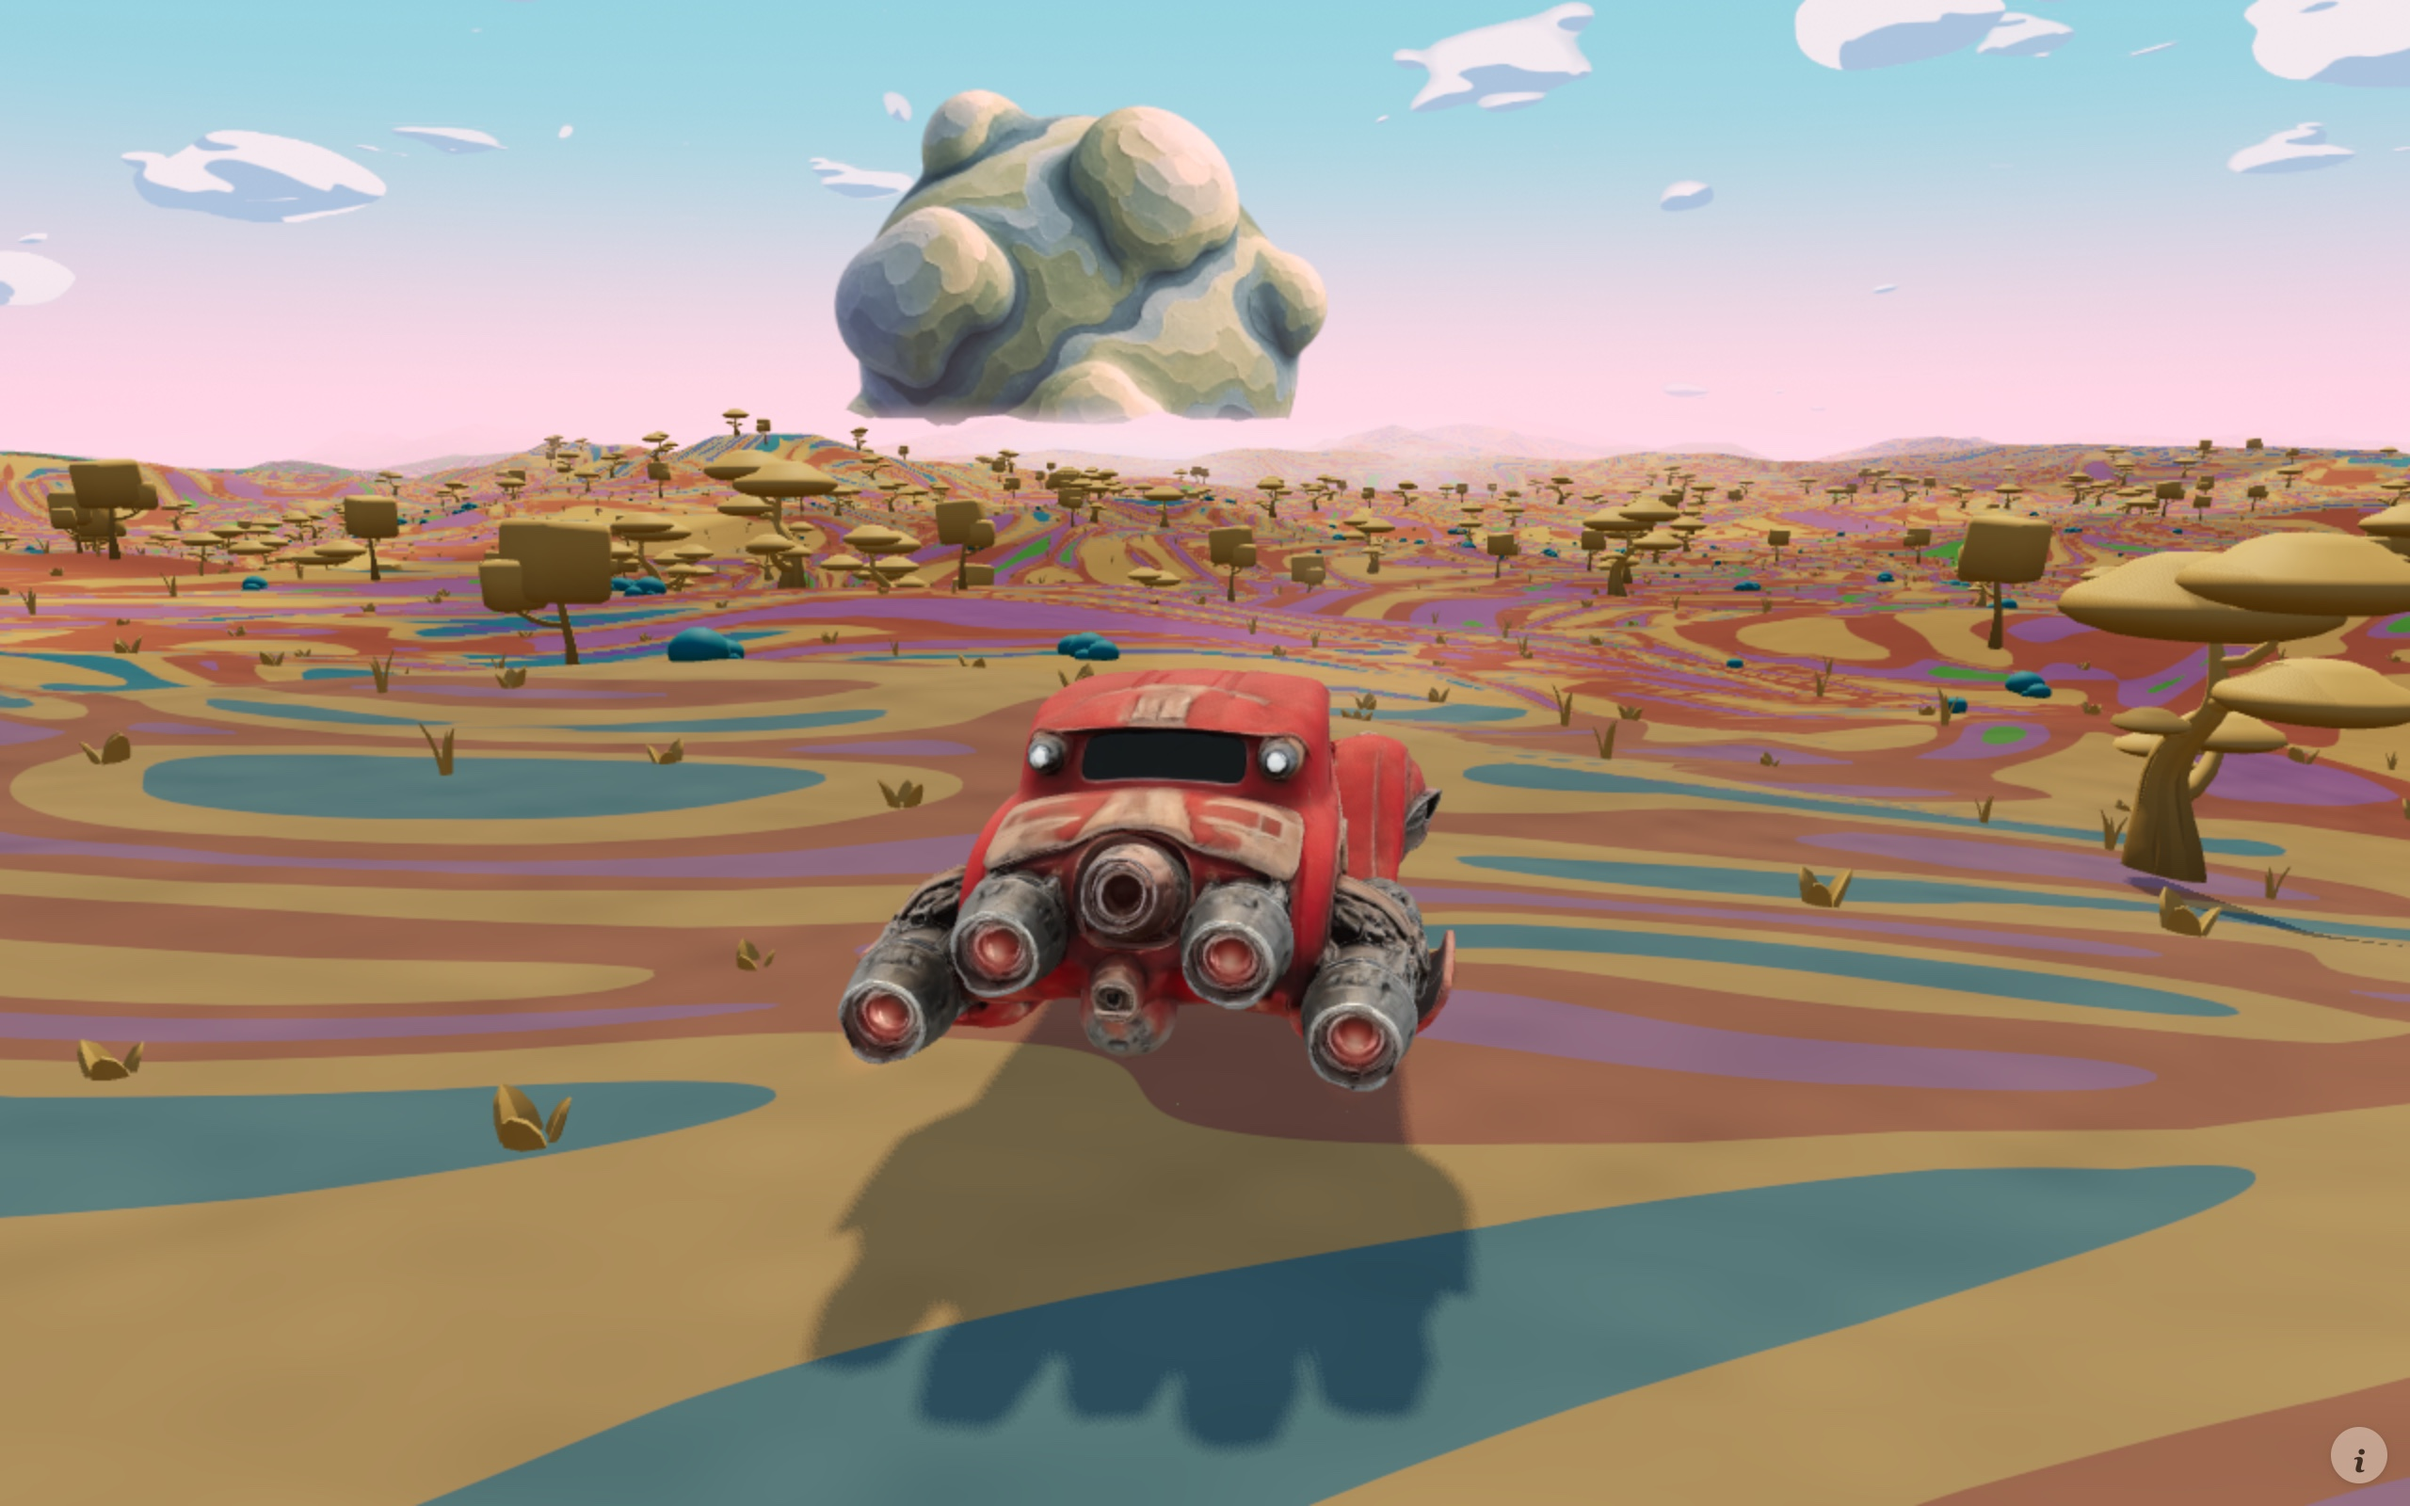
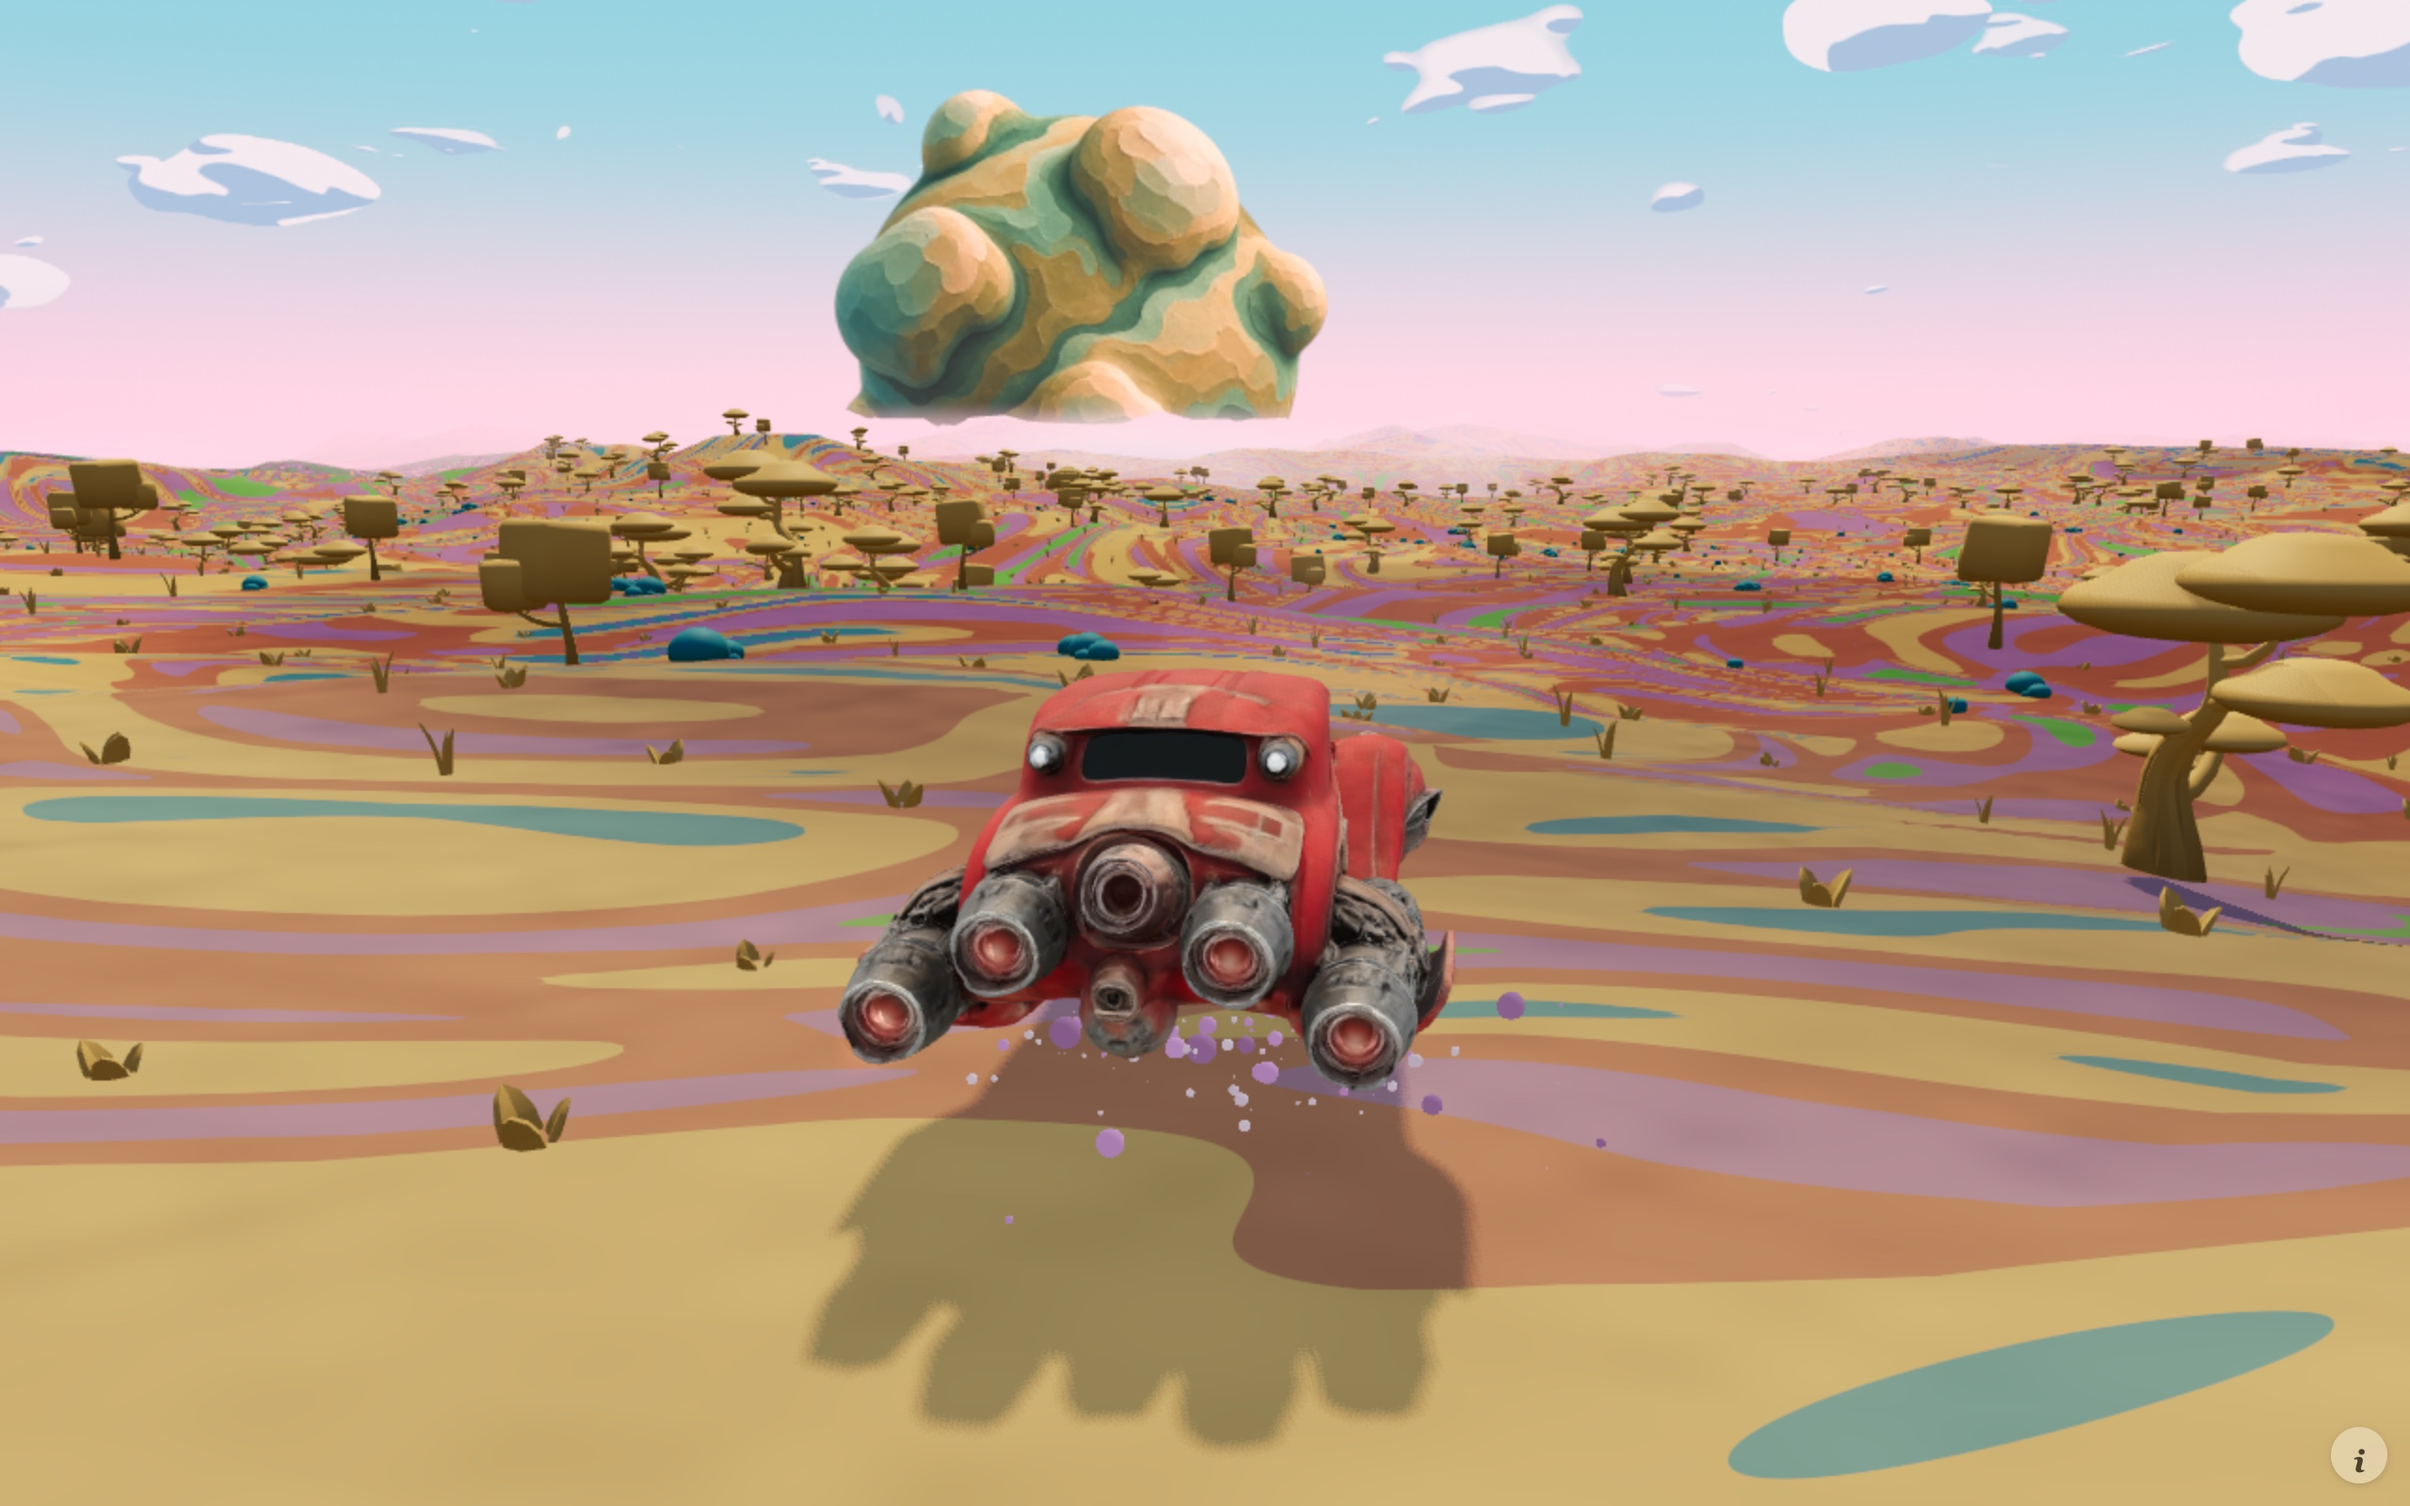
WS0: V-1207 korrigiert: PRs noch offen

diff --git a/tools/KFB-ToolBox/_inbox/KFB_HUB/30_DECISIONS/build_decisions.py b/tools/KFB-ToolBox/_inbox/KFB_HUB/30_DECISIONS/build_decisions.py
@@ -1182,7 +1182,7 @@ d('V-1203','2026-11-01','Spiel','RULE','Georg 01.11. (Q-042): Jede neue Faehigke
 d('V-1204','2026-11-01','Technik','DECISION','Spielchronik (Q-046, Georg 01.11.): ein Anhaenge-Protokoll fuer Rekorder und Lean Memory, Go nach Merge-Runde 3 hinter chronik=1. WS1 schreibt LEAN_MEMORY_R1 (Fakten statt Rohweg, Halter und Herkunft, Obergrenze, Vergessen, neu berechenbar, Version). Export auch als CSV, Spielstand loeschen loescht Chronik, Quelle der Wahrheit erst nach Gegenprobe umstellen.','WS1','Q-046, N-051','Georg 01.11.')
 d('V-1205','2026-11-01','Prozess','PLAN','Housekeeping GitHub: 25 offene PRs aus September und Anfang Oktober gehoeren nicht zum jetzigen Spiel, Hub-Frage zuklappen. PR 47 und 48 werden mit dem Merge von waffen-fx ueberholt, PR 46 geht in Merge-Runde 3, PR 45 offen pruefen. Gut 40 alte Zweige bleiben, kein Loeschen. Lokale Arbeitskopien spike, nature, cd-r3, streetplan, wissen sind sauber und gepusht, Papierkorb-Gang bei Bedarf.','WS0','GitHub-Liste 01.11.','Georg 01.11.')
 d('V-1206','2026-11-01','Kampf','TUNE','Georg 01.11. zur Explosion: Feuer und Rauch sehr cool, Papierzacken cartoonig und schlecht gezeichnet, AI slop. Keine Kamera-Effekte zum Kaschieren; erst sauber bauen, dann Immersion pruefen. Schichten subtil komponieren. Naechste Runde: Grundstand ohne Papier, am echten Einschlagsort, komponiert fuer die unveraenderte Spielkamera, Haenger; danach Papier nur als wenige echte verkohlte Kartenfetzen, Vergleich mit und ohne.','Flug-Sitzung','q387','Georg 01.11.')
-d('V-1207','2026-11-01','Prozess','DONE','Georg Ja: 26 alte PRs aus September bis 12.10. auf GitHub zugeklappt (PR 10 bis 43, Hub nannte 25), Zweige bleiben.','WS0','q388','Georg 01.11.')
+d('V-1207','2026-11-01','Prozess','OPEN','Georg Ja zum Zuklappen von 26 alten PRs (PR 10 bis 43, Hub nannte 25). NICHT erledigt: Das Werkzeug zeigt Georg je PR ein Formular, drei Aufrufe wurden abgelehnt. Niedrige Prioritaet, Zweige und Arbeit unberuehrt.','WS0','q388','Georg 01.11.')
 d('V-427','2026-10-17','Prozess','TBD','Repo privat (Georg: Ziel privates Repo, PDF-Viewer und KFB-Seiten extern erreichbar). Inventur: GitHub Pages (georg-doc.github.io/kayfabizarro) spiegelt das ganze Repo öffentlich inkl. Mystery Series; Cloudflare Pages baut weiter, lädt 2D/3D/Songs aber per raw.githubusercontent → bricht; Registry erzeugt 51 034 raw-Links (Generator tools/asset_registry/build.py); PDFs schon auf pages.dev, Viewer nur 4 URLs umzustellen. Kauf-/eingeschränkte Assets auf main: Mystery Series 297 MB (inkl. 64 SOURCE-.blend), Patreon Snow Biome, ggf. KayKit ohne _FREE (~165 MB, Georg klärt), Audio-Packs ~337 MB, CraftPix ~63 MB, Pixel Frog, Mixamo. Vorschlag Reihenfolge: (1) PDF-Viewer auf pages.dev, (2) öffentlicher R2-Bucket aus Allowlist per Action, (3) Registry-Generator + Librarian/Personae/Audio auf öffentliche URLs, (4) Kauf-Assets nur in Spiel-/Tool-Builds, (5) Token für WS1-Staging + CI-Sperre gegen raw/jsDelivr/github.io, (6) Georg: Pages abschalten, Repo privat, Cloudflare-Zugriff prüfen. Aufwand ~3–5 Agent-Tage + ~1 h Georg.', 'WS0 (Plan) · WSA/WS1 (Umstellung) · Georg (Einstellungen)', 'Georg entscheidet Plan + welche Packs gekauft sind', 'replies/REPO_PRIVATE_MIGRATION_INVENTORY_R1.md')
 d('V-084','2026-10-10','Claude Design','FAIL','Town-Massemodell R1: Claude Design baut keine 3D-Geometrie mehr.', 'Steuerung', '-', 'docs/critic/claude-design/town-massemodell-r1-FAIL_2026-10-10/')
 # --- WARUM und WANN (Georg 11.10.: „why & when für decisions“) ---

diff --git a/tools/KFB-ToolBox/_inbox/KFB_HUB/30_DECISIONS/DECISIONS.md b/tools/KFB-ToolBox/_inbox/KFB_HUB/30_DECISIONS/DECISIONS.md
@@ -1172,7 +1172,7 @@ Stand 2026-11-01 · erzeugt aus `build_decisions.py` · Teil A handgepflegt (nur
 | V-1204 | 2026-11-01 | 01.11. | Technik | **DECISION** | Spielchronik (Q-046, Georg 01.11.): ein Anhaenge-Protokoll fuer Rekorder und Lean Memory, Go nach Merge-Runde 3 hinter chronik=1. WS1 schreibt LEAN_MEMORY_R1 (Fakten statt Rohweg, Halter und Herkunft, Obergrenze, Vergessen, neu berechenbar, Version). Export auch als CSV, Spielstand loeschen loescht Chronik, Quelle der Wahrheit erst nach Gegenprobe umstellen. | Vier Schreiber heute, doppelte Aufzeichnung; Messung und Spielgeschehen in einem Zeitstrahl sparen beides. | WS1 | Q-046, N-051 | Georg 01.11. |
 | V-1205 | 2026-11-01 | 01.11. | Prozess | **PLAN** | Housekeeping GitHub: 25 offene PRs aus September und Anfang Oktober gehoeren nicht zum jetzigen Spiel, Hub-Frage zuklappen. PR 47 und 48 werden mit dem Merge von waffen-fx ueberholt, PR 46 geht in Merge-Runde 3, PR 45 offen pruefen. Gut 40 alte Zweige bleiben, kein Loeschen. Lokale Arbeitskopien spike, nature, cd-r3, streetplan, wissen sind sauber und gepusht, Papierkorb-Gang bei Bedarf. | Offene Liste soll zeigen, was laeuft; zuklappen verliert nichts. | WS0 | GitHub-Liste 01.11. | Georg 01.11. |
 | V-1206 | 2026-11-01 | 01.11. | Kampf | **TUNE** | Georg 01.11. zur Explosion: Feuer und Rauch sehr cool, Papierzacken cartoonig und schlecht gezeichnet, AI slop. Keine Kamera-Effekte zum Kaschieren; erst sauber bauen, dann Immersion pruefen. Schichten subtil komponieren. Naechste Runde: Grundstand ohne Papier, am echten Einschlagsort, komponiert fuer die unveraenderte Spielkamera, Haenger; danach Papier nur als wenige echte verkohlte Kartenfetzen, Vergleich mit und ohne. | Meine Kamera-Empfehlung haette einen schwachen Effekt kaschiert; gezeichnete Form auf guter Simulation schwaecht beide. | Flug-Sitzung | q387 | Georg 01.11. |
-| V-1207 | 2026-11-01 | 01.11. | Prozess | **DONE** | Georg Ja: 26 alte PRs aus September bis 12.10. auf GitHub zugeklappt (PR 10 bis 43, Hub nannte 25), Zweige bleiben. | Offene Liste zeigt jetzt nur noch laufende Arbeit. | WS0 | q388 | Georg 01.11. |
+| V-1207 | 2026-11-01 | 01.11. | Prozess | **OPEN** | Georg Ja zum Zuklappen von 26 alten PRs (PR 10 bis 43, Hub nannte 25). NICHT erledigt: Das Werkzeug zeigt Georg je PR ein Formular, drei Aufrufe wurden abgelehnt. Niedrige Prioritaet, Zweige und Arbeit unberuehrt. | Offene Liste zeigt jetzt nur noch laufende Arbeit. | WS0 | q388 | Georg 01.11. |
 | V-427 | 2026-10-17 | nach Georgs Entscheid | Prozess | **TBD** | Repo privat (Georg: Ziel privates Repo, PDF-Viewer und KFB-Seiten extern erreichbar). Inventur: GitHub Pages (georg-doc.github.io/kayfabizarro) spiegelt das ganze Repo öffentlich inkl. Mystery Series; Cloudflare Pages baut weiter, lädt 2D/3D/Songs aber per raw.githubusercontent → bricht; Registry erzeugt 51 034 raw-Links (Generator tools/asset_registry/build.py); PDFs schon auf pages.dev, Viewer nur 4 URLs umzustellen. Kauf-/eingeschränkte Assets auf main: Mystery Series 297 MB (inkl. 64 SOURCE-.blend), Patreon Snow Biome, ggf. KayKit ohne _FREE (~165 MB, Georg klärt), Audio-Packs ~337 MB, CraftPix ~63 MB, Pixel Frog, Mixamo. Vorschlag Reihenfolge: (1) PDF-Viewer auf pages.dev, (2) öffentlicher R2-Bucket aus Allowlist per Action, (3) Registry-Generator + Librarian/Personae/Audio auf öffentliche URLs, (4) Kauf-Assets nur in Spiel-/Tool-Builds, (5) Token für WS1-Staging + CI-Sperre gegen raw/jsDelivr/github.io, (6) Georg: Pages abschalten, Repo privat, Cloudflare-Zugriff prüfen. Aufwand ~3–5 Agent-Tage + ~1 h Georg. | Gekaufte Assets liegen öffentlich (Repo + GitHub Pages); privat schalten ohne Umzug würde Viewer, Librarian, Audio, ToolBox und 3D-Bühnen brechen. | WS0 (Plan) · WSA/WS1 (Umstellung) · Georg (Einstellungen) | Georg entscheidet Plan + welche Packs gekauft sind | replies/REPO_PRIVATE_MIGRATION_INVENTORY_R1.md |
 | V-084 | 2026-10-10 | ab 10.10. | Claude Design | **FAIL** | Town-Massemodell R1: Claude Design baut keine 3D-Geometrie mehr. | Prozedurale Primitive können keine Claymation; Regress. | Steuerung | - | docs/critic/claude-design/town-massemodell-r1-FAIL_2026-10-10/ |
 

diff --git a/tools/KFB-ToolBox/_inbox/KFB_HUB/30_DECISIONS/replies/WOLKEN_R2/KONZEPT_PLANETEN_BEWEGUNG_R1.md b/tools/KFB-ToolBox/_inbox/KFB_HUB/30_DECISIONS/replies/WOLKEN_R2/KONZEPT_PLANETEN_BEWEGUNG_R1.md
@@ -22,7 +22,7 @@ Videos und Bilder: `aufgang_puls.webm`, `planet_toenungen.jpg`.
 - **Später die ganze Welt:** Gras, Fluff, Lampen hängen sich an dieselbe Zahl.
 
 ## 3 · Tönung
-- **So läuft es:** Das Bild wird zur Palettenrolle des Bioms gemischt, seine Helligkeit bleibt (`bodies.tint`: Standard `land`, Rolle `bloom`, Anteil 0,3; weitere Fassungen `eigen`, `warm`, `kuehl`, Wahl je Szene über `scenes`). Das Motiv bleibt lesbar.
+- **So läuft es:** Der Farbton des Bildes wird zur Palettenrolle des Bioms hin gedreht, Helligkeit und Sättigung bleiben (`bodies.tint`: Standard `land`, Rolle `bloom`, Anteil 0,3; weitere Fassungen `eigen`, `warm`, `kuehl`, Wahl je Szene über `scenes`). Das Motiv bleibt lesbar.
 - **Vergleich:** `planet_toenungen.jpg`: ohne, warm, kühl, derselbe Planet an derselben Stelle. Im Bild steht Anteil 0,35.
 - **Geltung:** Nur gemalte Planeten, Nacht-Mond nicht. Shader-Körper bleiben wie sie sind.
 
